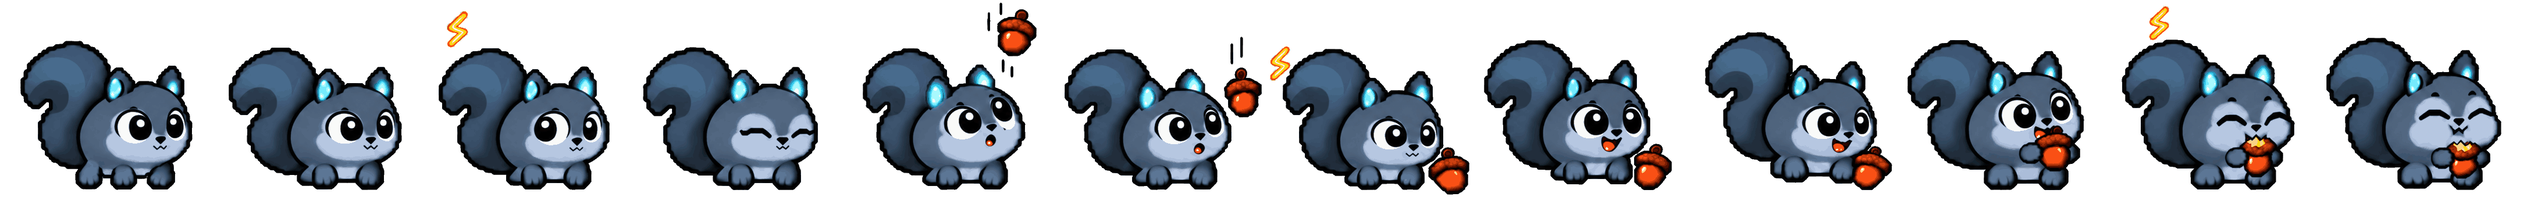
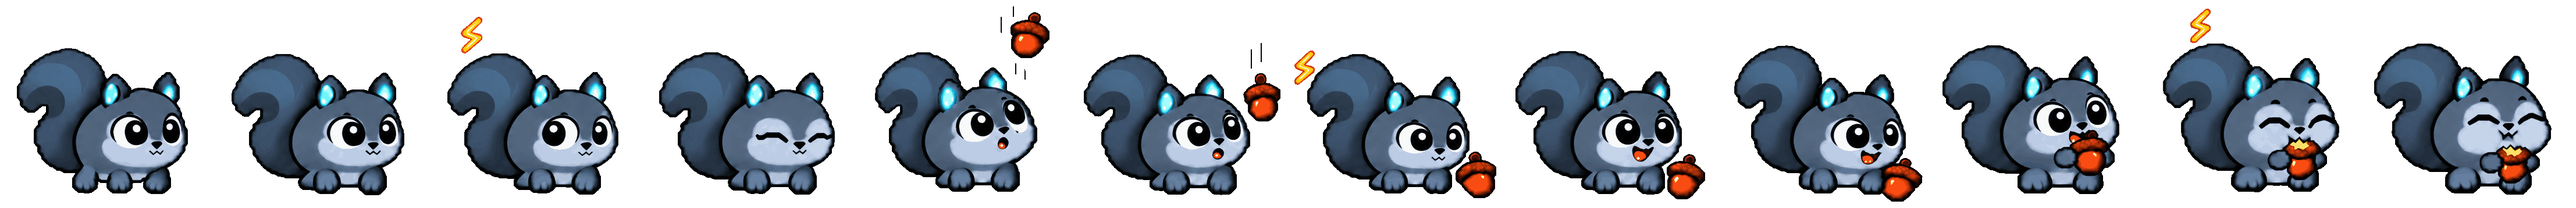
Take the redrawn Puffling idle
Same story as the sheet it replaces - sits, blinks, an acorn drops in, it eats
- redrawn. It is the first pack to arrive with soft edges, 3% of its pixels
part-transparent, which are hardened on the way in: the app renders with
image-rendering: pixelated and feathering turns to mush under it. Its rows
drift as every pack's do, 50px across the sheet, so every frame is pinned to
one ground line.

Calibrated to render exactly where the old sheet did - painted area within 1%,
ground line and centre on the pixel - because the Zephyrite and its Lightning
Bolt were both set against the Puffling, and moving it would have moved them.

Its feet do sit slightly differently inside the new drawing, though, which left
the Zephyrite pair 4.5 CSS px above the floor. Both come down to meet it, so
all three Nimbus forms share one ground line again - measured on screen, to the
pixel, with the idle holding it to 2px across its own loop.

ART_VERSION 10: the filename has not changed, so nothing would fetch the new
drawing without it.

Claude-Session: https://claude.ai/code/session_01YRzrKPfiP3SQKKej9Vjk7N

Changed region(s): [[0.0, 0.0307, 0.9945, 0.9832]]

diff --git a/index.html b/index.html
@@ -1449,7 +1449,7 @@ const SKILLS = {
            the way the Puffling's does; the strike is four frames that grow, so
            they are held rather than cycled, and the last one longest. */
         durations:[380, 340, 300, 260, 230, 200, 180, 160, 150, 170, 260, 460],
-        aspect:1.061, scale:1.376, dx:5.6, dy:-28.5 } }
+        aspect:1.061, scale:1.376, dx:5.6, dy:-25.2 } }
   ]
 };
 function skillsFor(speciesId){ return SKILLS[speciesId] || []; }
@@ -2496,12 +2496,12 @@ const DEFAULT_SPRITES = {
     // rows each draw the squirrel higher than the last, so every frame is
     // pinned to one ground line - only the squirrel, since the acorn and the
     // bolts are meant to move.
-    frames:12, rows:1, fps:2, aspect:0.997, scale:1.04, dy:-7
+    frames:12, rows:1, fps:2, aspect:1.031, scale:1.068, dx:3, dy:-9.7
   },
   "nimbus:2": {
     src:"art/nimbus-zephyrite.png",
     // 12-frame loop: the charge crackles around it and it blinks through it
-    frames:12, rows:1, fps:2, aspect:1.199, scale:1.2, dx:0.9, dy:-15.1
+    frames:12, rows:1, fps:2, aspect:1.199, scale:1.2, dx:0.9, dy:-11.3
   },
   "verdant:1": {
     src:"art/panda-cub.png",
@@ -2534,7 +2534,7 @@ function spriteConfig(species, stage){
    already has one will happily go on showing the old drawing. Bump this and
    every cache along the way fetches the new file. Only the sheets that ship
    with the app are stamped; a sheet you point at yourself is used verbatim. */
-const ART_VERSION = "9";
+const ART_VERSION = "10";
 function assetURL(src){
   return /^art\//.test(src) ? src + "?v=" + ART_VERSION : src;
 }

diff --git a/demo.html b/demo.html
@@ -22,7 +22,7 @@
   p{color:#8791a8;font-size:14px;line-height:1.65;margin:14px 0 0}
   .pet{
     width:191px;height:132px;margin:24px auto 4px;display:block;
-    background-image:url("art/ember-cinderling.png?v=9");
+    background-image:url("art/ember-cinderling.png?v=10");
     background-size:2292px 132px;          /* 12 frames of 191px */
     background-position:-573px 0;          /* frame 4 */
     background-repeat:no-repeat;

diff --git a/README.md b/README.md
@@ -92,9 +92,12 @@ after, restless at two days, sad at three, and asleep from five.
 
 The Puffling — Nimbus's baby — is a squirrel with a charge in its ears, and its
 twelve frames tell the same kind of story the Bamboo Cub's do: it sits, it
-blinks, an acorn drops in, it eats. That art arrived with real alpha and hard
-edges already, so there was no keying to do; the rows still each drew the
-squirrel higher than the last, 16px and then another 33, so every frame is
+blinks, an acorn drops in, it eats. Its sheet has been redrawn once since; the
+replacement came with soft edges, which are hardened on the way in because the
+app renders with `image-rendering: pixelated` and feathering turns to mush. It
+is calibrated to render exactly where the sheet it replaced did — same painted
+area to within 1%, same ground line to the pixel — so nothing downstream moved.
+The rows still each drew the squirrel higher than the last, so every frame is
 pinned to one ground line. Only the squirrel is pinned — the acorn and the
 lightning bolts are meant to move, and one of the bolts is drawn straight
 across a grid line, so the frames are cut by which piece belongs to which cell
